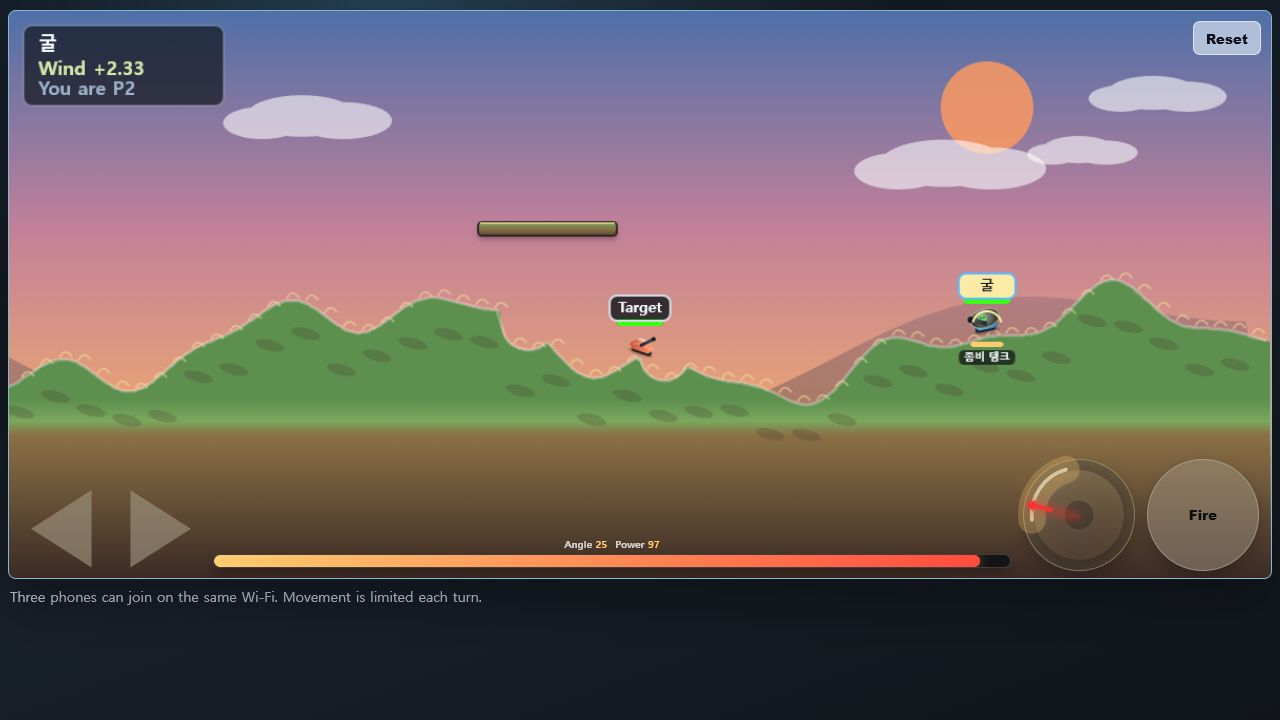
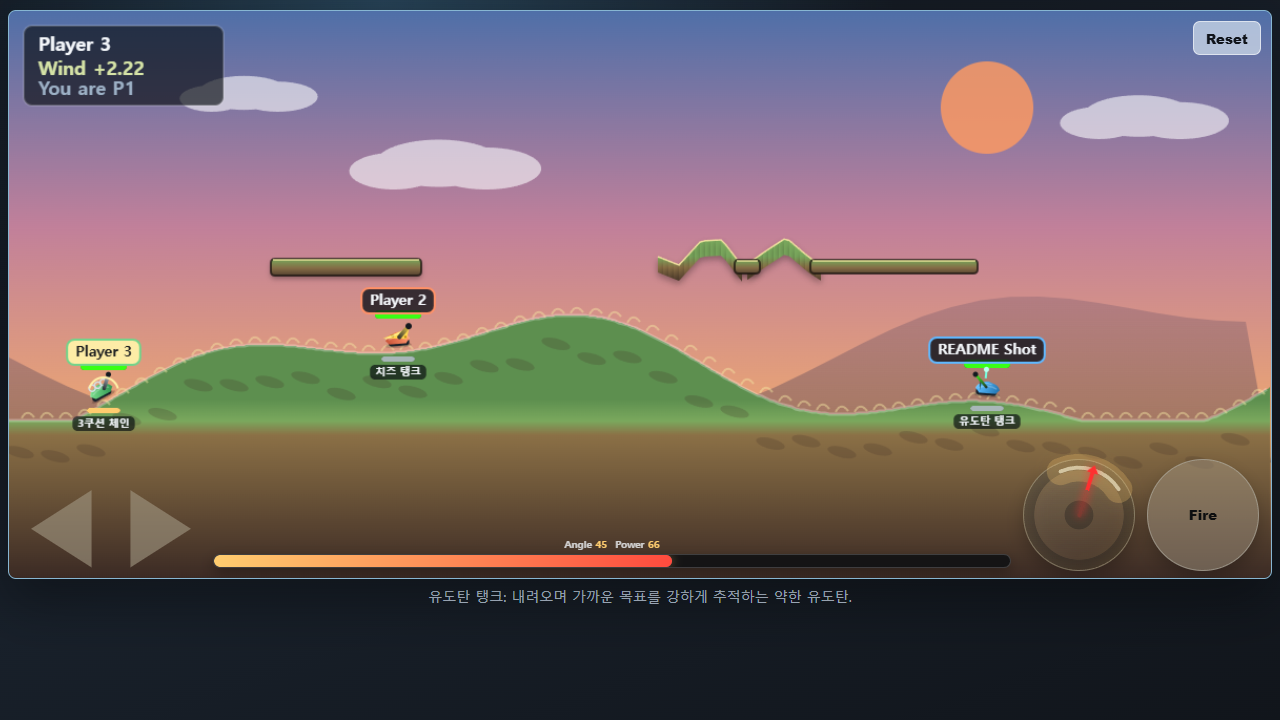
Document tank types and gameplay snapshot

diff --git a/README.md b/README.md
@@ -1,8 +1,12 @@
 # Sky Battery
 
+Sky Battery is a local Wi-Fi browser artillery game developed by Eugene Back and Seohyun Back. One PC runs the Python server, and phones or browsers on the same network join as clients.
+
+## Gameplay Snapshot
+
 ![Sky Battery gameplay screen](docs/sky-battery-gameplay.png)
 
-Sky Battery is a local Wi-Fi browser artillery game developed by Eugene Back and Seohyun Back. One PC runs the Python server, and phones or browsers on the same network join as clients.
+Sky Battery uses a wide 20:9 battlefield with destructible terrain, floating platforms, wind, turn-based movement, and touch-friendly fire controls.
 
 ## Requirements
 
@@ -17,7 +21,7 @@ No npm install or build step is required.
 From the project directory:
 
 ```powershell
-cd C:\Users\Tower\Desktop\projects\test
+cd C:\Users\Tower\Desktop\projects\sky-battery
 python server.py
 ```
 
@@ -167,6 +171,29 @@ Pressing `Recreate World` returns everyone to setup and generates a fresh map.
 - Hold Fire to charge power, then release to shoot.
 - Keyboard: left/right arrows or `A`/`D` move, up/down arrows adjust angle, Space charges and fires.
 - During cruise missile flight, Space or Fire applies lift.
+
+## Tank Types
+
+| Tank | Role |
+| --- | --- |
+| Normal Tank | Standard single-shot tank with balanced damage and blast size. |
+| Triple Missile | Fires three shells at slight angle offsets for wider coverage. |
+| Red Core | Fires a small red round with very high direct damage and a tight blast. |
+| Seeker | Fires a small green missile that locks onto nearby targets while falling. |
+| Howitzer | Projectile grows with flight time, increasing visible size, damage, and blast radius. |
+| Laser | Shoots an instant beam that carves terrain along its path. |
+| 3-Cushion Chain | Bounces off terrain up to three times before exploding. |
+| Poop Tank | Adds poop stacks that reduce movement and increase later poop damage. |
+| Nuke Tank | Marks a target point first; hitting the same point again triggers a huge blast. |
+| Cruise Missile | Launches a slow missile; Fire or Space applies lift during flight. |
+| Cheese Tank | Cheese projectile splits repeatedly into multiple pieces. |
+| Zombie Tank | Throws a stone that releases a zombie near impact; zombies chase and tap-damage tanks. |
+| Healing Tank | Deals reduced damage, but self-hits restore part of missing health with a sparkle effect. |
+| Heart Tank | Fires a pink heart; pressing Fire or Space changes its size, with a rare giant heart. |
+| Pujik Tank | Launches a butt-shaped projectile that can stop midair and drop poop. |
+| Boing Tank | Hitting terrain jumps the tank to that point; hitting a tank explodes like a normal shell. |
+| Ball Tank | Fires white balls that split, then merge into larger falling balls. |
+| Super Tank | Very rare rainbow homing missile tank with five guided shots. |
 
 ## Troubleshooting
 